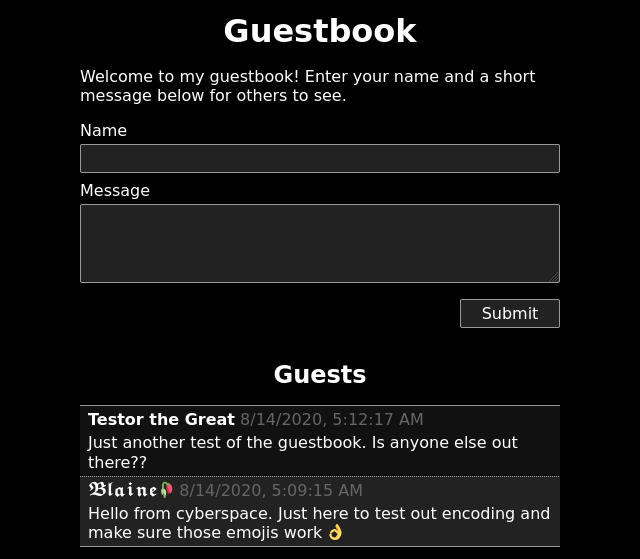
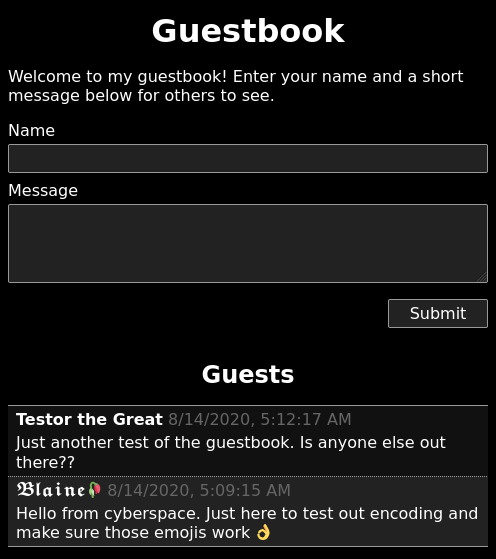
Made screenshot smaller

diff --git a/README.md b/README.md
@@ -5,7 +5,7 @@ hosted pages, and guest log are all stored on an SD card. The provided firmware
 is written for the Arduino framework and tested on a WeMos D1 Mini clone.
 
 <div align="center">
-    <img src="screenshot.png" alt="Web interface" width="640px">
+    <img src="screenshot.png" alt="Web interface" width="496px">
 </div>
 
 
